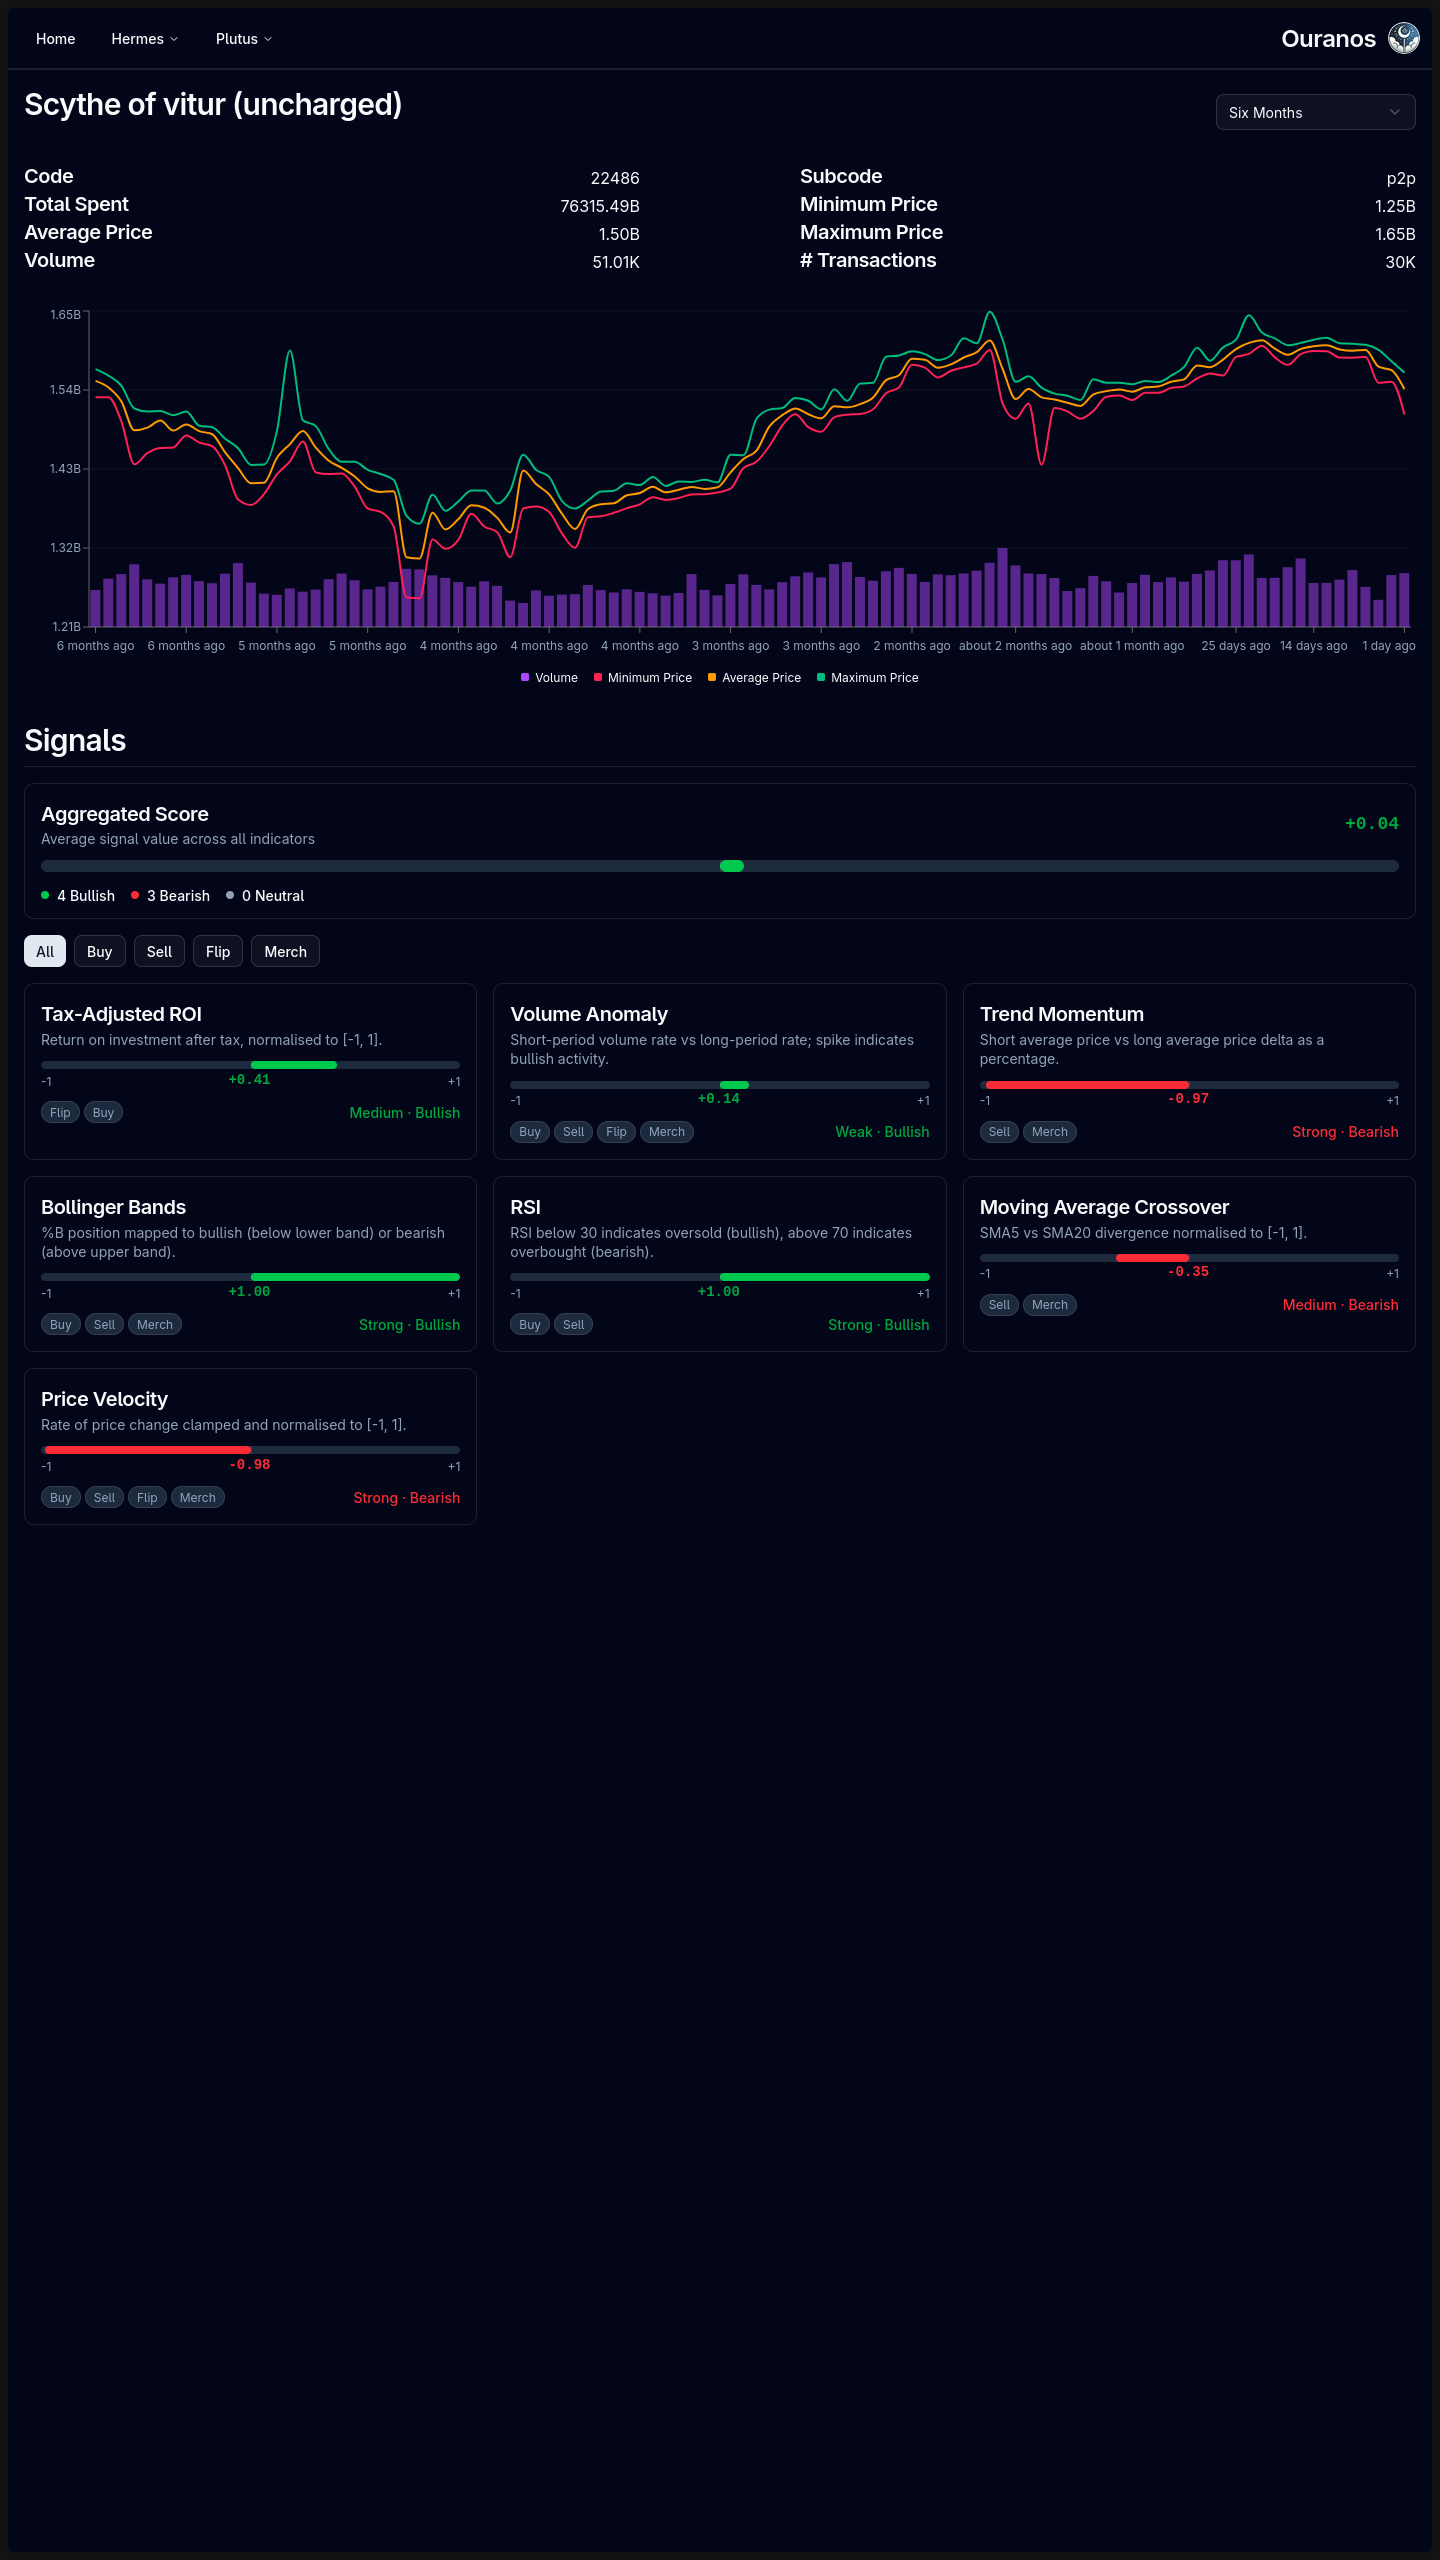
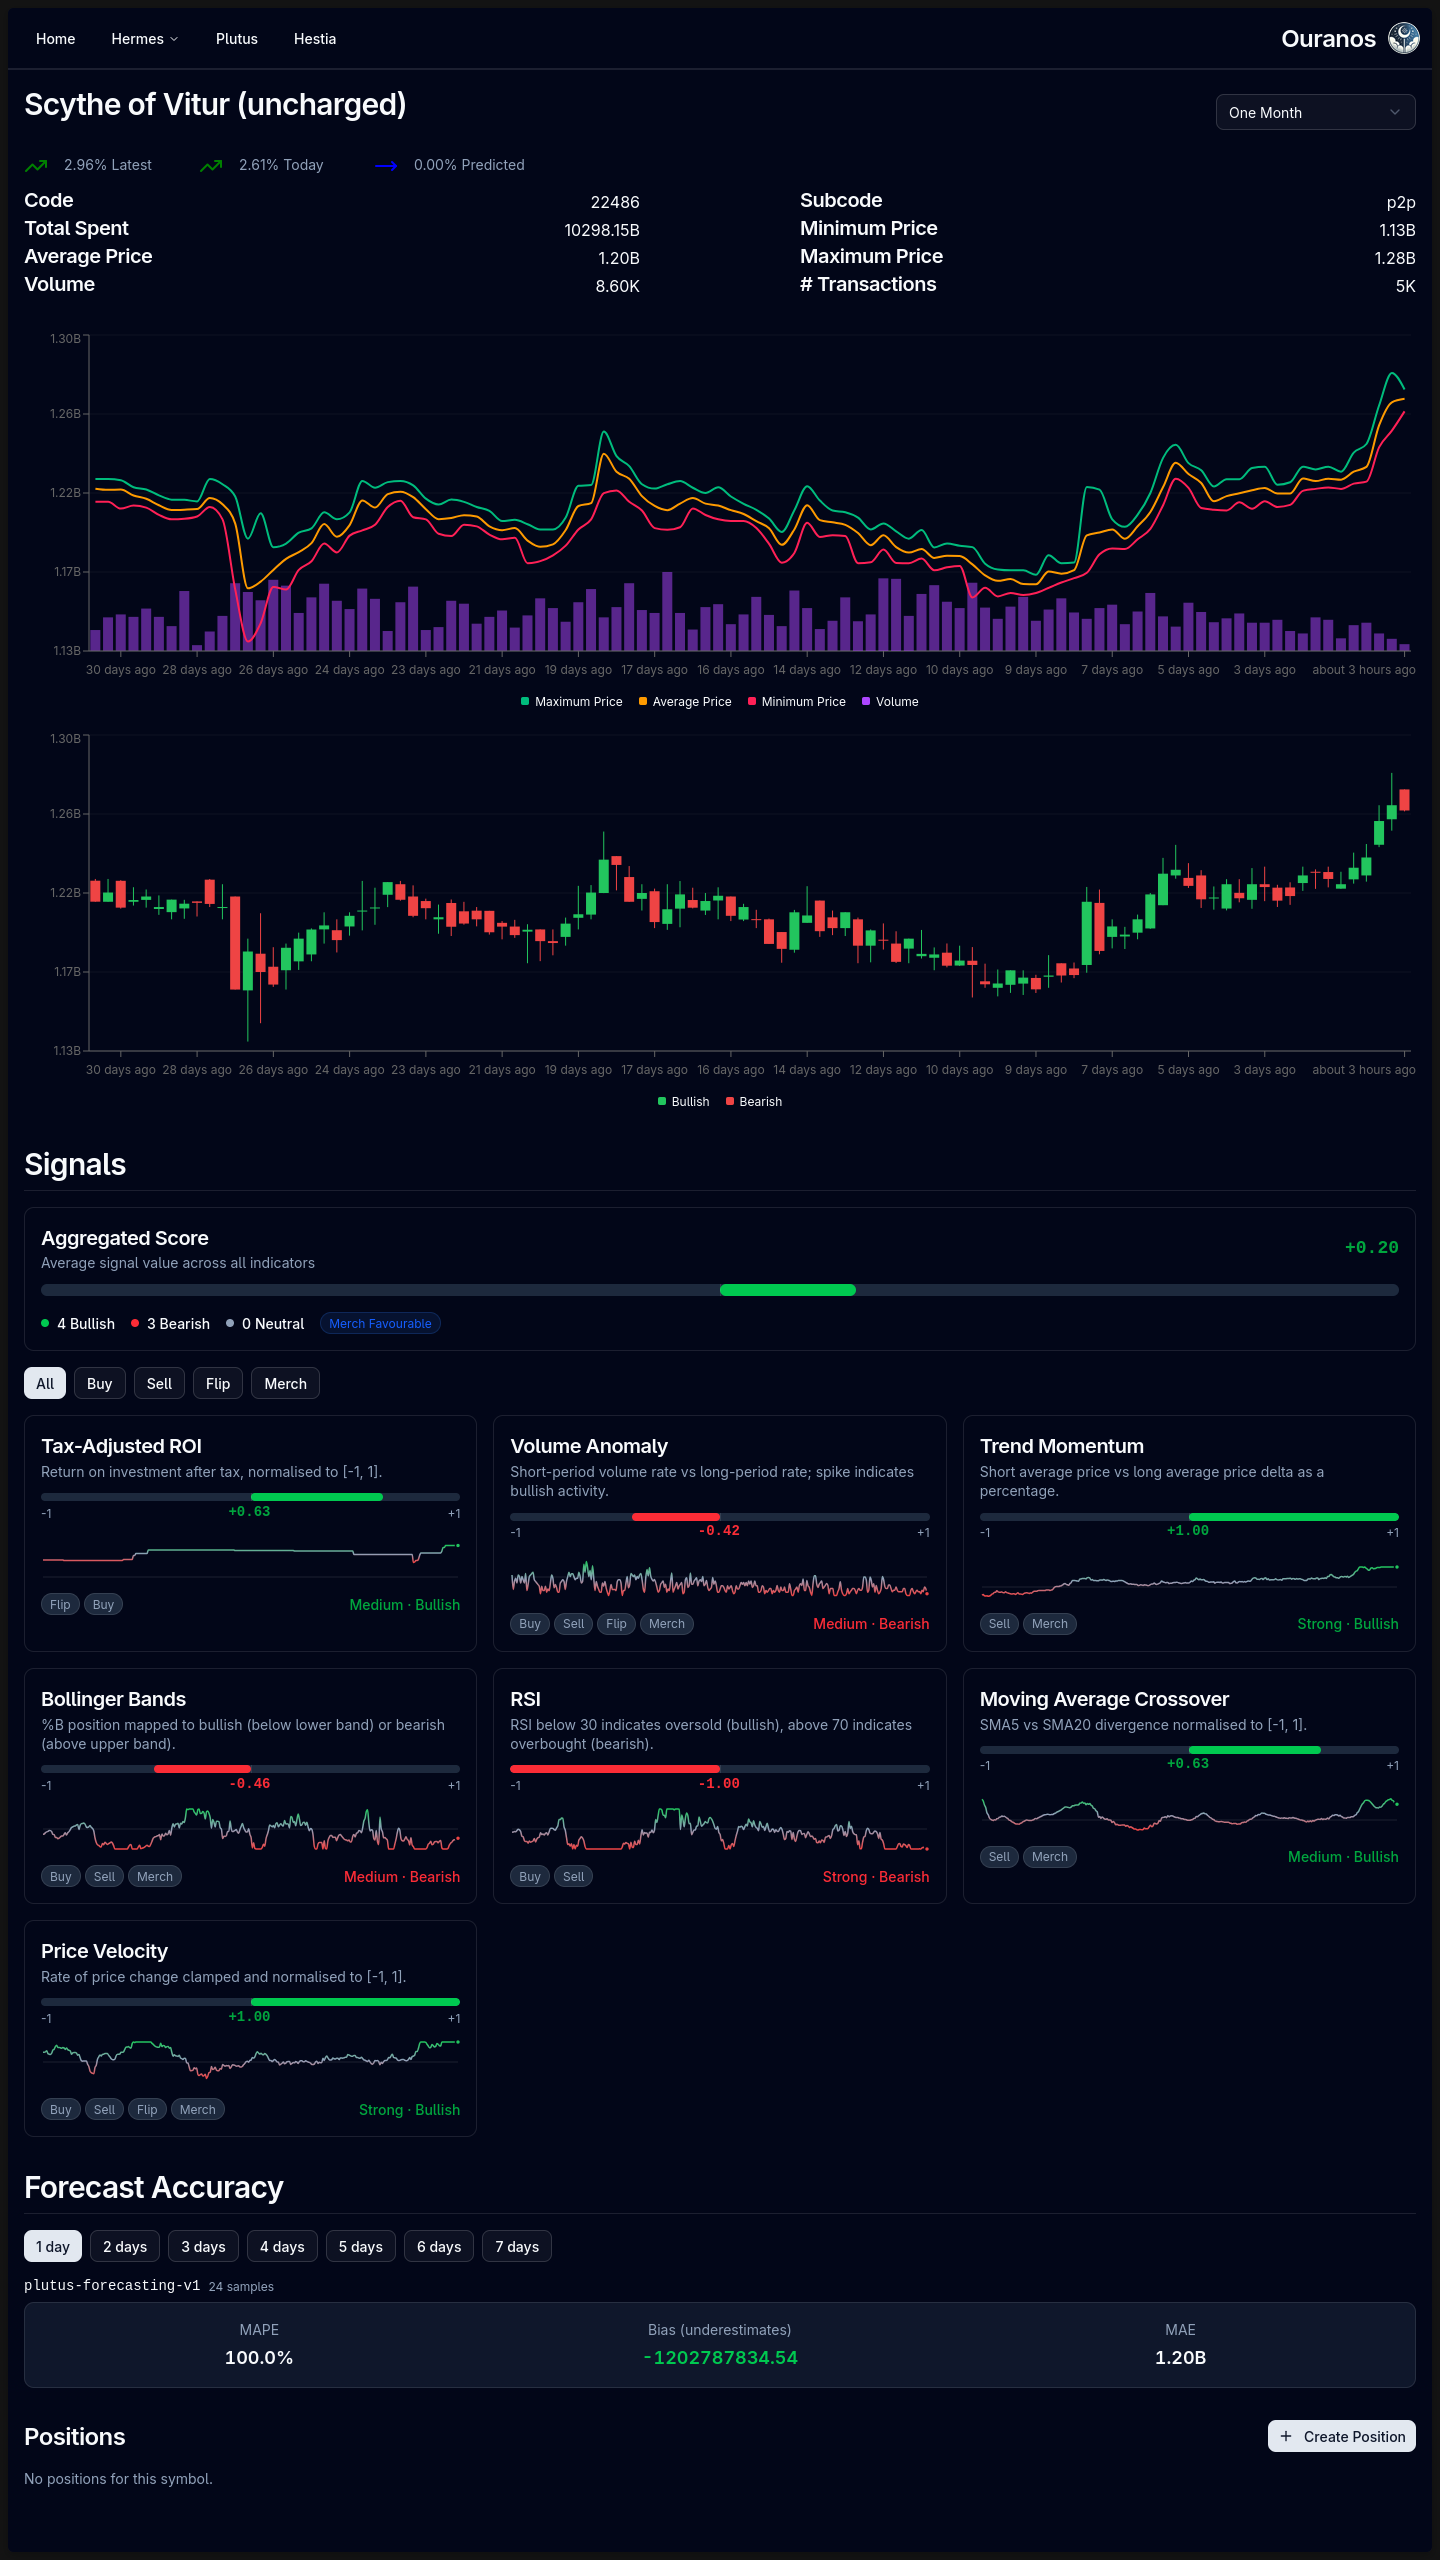
docs(readme): update docs to include hestia references
Updated the readme to include the Hestia module. Updated infrastructure references. Added hestia preview image. Updated plutus preview image to showcase new features.

diff --git a/README.md b/README.md
@@ -10,7 +10,7 @@ An extensible modular monolith platform for building centralized personal servic
 
 Ouranos Pantheon is a personal platform built to grow. It provides a structured foundation - a modular monolith with explicit domain boundaries - that makes it straightforward to add new functionality without touching existing modules. Each module is a self-contained vertical slice; adding a new domain means adding a new module and registering it in the gateway.
 
-The platform currently includes two modules: one for aggregating and analyzing market data across game economies and financial markets, and one for interacting with locally-hosted LLMs via a configurable chat interface. Future modules can address any domain that benefits from a centralized, always-available personal service.
+The platform currently includes three modules: one for aggregating and analyzing market data across game economies and financial markets, one for interacting with locally-hosted LLMs via a configurable chat interface, and one for managing recipes imported from the web. Future modules can address any domain that benefits from a centralized, always-available personal service.
 
 This project exists to demonstrate modern .NET architecture patterns in a practical, real-world application that actively makes daily life more convenient.
 
@@ -21,37 +21,49 @@ This project exists to demonstrate modern .NET architecture patterns in a practi
 Aggregates trade data from multiple external sources and provides tools for analysis and decision-making.
 
 - Real-time trade ingestion from FFXIV (Universalis), OSRS (Wiki API), and US stock markets (Alpaca)
-- Trade snapshots across configurable time frames
+- Trade snapshots and aggregates across configurable time frames, backed by TimescaleDB continuous aggregates
 - Quantitative investment signal analysis (RSI, Bollinger Bands, Moving Average Crossover, Volume Anomaly, and more)
 - ML-powered price forecasting via an external inference service
+- Configurable trading strategies with backtesting and multi-objective optimization, plus signal-driven position recommendations
 - Crafting recipe cost analysis for game economies
 
 ### Hermes - AI Chat Assistants
 
 A chat interface for locally-hosted LLMs with configurable assistant profiles.
 
-- Create and manage multiple assistant configurations (model, system prompt, temperature, etc.)
+- Create and manage assistant personas (model, system prompt, temperature, etc.) with reusable traits
+- Organize conversations into folders and switch between configured LLM models
 - Streaming chat completions
+
+### Hestia - Recipe Management
+
+Manages cooking recipes with full version history and automated import from the web.
+
+- Create and edit recipes (ingredients, steps, notes) with complete change history and one-click revert to any previous version
+- Import recipes from recipe websites asynchronously - page metadata is scraped and normalized by a locally-hosted LLM
+- Event-sourced persistence using Marten on PostgreSQL
 
 ## Architecture
 
 Ouranos Pantheon is a **modular monolith** - a single deployable application composed of isolated domain modules. Each module enforces its own boundaries and communicates through explicit contracts rather than shared state.
 
-**Patterns:** Vertical Slice Architecture · Domain-Driven Design · Message-driven data pipelines
+**Patterns:** Vertical Slice Architecture · Domain-Driven Design · Message-driven data pipelines · Event Sourcing (Marten)
 
 **Module contract:** Every module implements `IPantheonModule`, which provides hooks for service registration, middleware configuration, and endpoint mapping. The gateway composes all registered modules at startup.
 
 **Data flow:** External APIs → Data loader workers → RabbitMQ → Consumer → PostgreSQL → REST API → Next.js dashboard
 
+**Persistence:** Modules own their storage - Plutus uses EF Core with TimescaleDB hypertables and continuous aggregates, while Hestia uses event sourcing with Marten.
+
 ## Tech Stack
 
-| Category   | Technologies                             |
-| ---------- | ---------------------------------------- |
-| Backend    | .NET, ASP.NET Core Minimal APIs, EF Core |
-| Frontend   | Next.js, TypeScript, Tailwind CSS        |
-| Data       | PostgreSQL                               |
-| Messaging  | RabbitMQ, Wolverine                      |
-| Scheduling | TickerQ                                  |
+| Category   | Technologies                                        |
+| ---------- | --------------------------------------------------- |
+| Backend    | .NET, ASP.NET Core Minimal APIs, EF Core, Marten    |
+| Frontend   | Next.js, React, TypeScript, Tailwind CSS, Zustand   |
+| Data       | PostgreSQL (TimescaleDB)                            |
+| Messaging  | RabbitMQ, Wolverine                                 |
+| Scheduling | TickerQ                                             |
 
 ## Project Structure
 
@@ -61,9 +73,10 @@ src/
     gateway/          # REST API host - composes all modules
     interface/        # Next.js dashboard
   modules/
-    plutus/           # Market data, trades, signals, forecasts, recipes
+    plutus/           # Market data, trades, signals, forecasts, strategies
     hermes/           # AI chat assistants
-    Shared/           # Cross-cutting infrastructure and base abstractions
+    hestia/           # Recipes with version history and web import
+    shared/           # Cross-cutting infrastructure
 tests/
 automation/           # Git hooks (pre-commit formatting, pre-push build)
 ```
@@ -97,6 +110,7 @@ npm run dev
 
 <img src="docs/assets/plutus-preview.png" alt="Plutus Preview" width=250>
 <img src="docs/assets/hermes-preview.png" alt="Hermes Preview" width=250>
+<img src="docs/assets/hestia-preview.png" alt="Hestia Preview" width=250>
 
 ## Contributing
 
